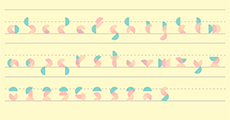
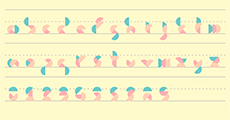
Update letters.js, README and image files
This commit focused on altering the forms that I was not one hundred percent happy with. These forms are now at a stage that I am saitisfied with.

diff --git a/draw_letters.js b/draw_letters.js
@@ -1,6 +1,6 @@
-//const colorFront1  = "#6dc9c9"; //tiffany blue
-//const colorFront2  = "#ffb2b2"; //coral pink
-//const colorFront3  = "#ffd0b5"; //salmon pink
+const colorFront1  = "#6dc9c9"; //tiffany blue
+const colorFront2  = "#ffb2b2"; //coral pink
+const colorFront3  = "#ffd0b5"; //salmon pink
 
 /*
  * Draw the letter given the letterData
@@ -12,14 +12,6 @@
 function drawLetter(letterData) {
   // color/stroke setup
   noStroke();
-
-  //Colour setup
-  let tiffanyblue = color("#6dc9c9");
-  tiffanyblue.setAlpha(200);
-  let coralpink = color("#ffb2b2");
-  coralpink.setAlpha(200);
-  let salmonpink = color("#ffd0b5");
-  salmonpink.setAlpha(200);
 
   //letter parameters
   //arc 1
@@ -44,15 +36,15 @@ function drawLetter(letterData) {
   let arcHei = letterData ["arcH"];
 
   //arc 1
-  fill(tiffanyblue);
+  fill(colorFront1);
   arc(arcX, arcY, arcWid, arcHei, arcS, arcE);
 
   //arc 2
-  fill(coralpink);
+  fill(colorFront2);
   arc(arcX2, arcY2, arcWid, arcHei, arcS2, arcE2);
 
   //arc 3
-  fill(salmonpink);
+  fill(colorFront3);
   arc(arcX3, arcY3, arcWid, arcHei, arcS3, arcE3);
 }
 

diff --git a/letters.js b/letters.js
@@ -202,8 +202,8 @@ const alphabet = {
     "arcH" : 75,
 
     //arc 1
-    "arcX" : 40,
-    "arcY" : 130,
+    "arcX" : 37,
+    "arcY" : 140,
     "arcS" : 23.55,
     "arcE" : 7.85,
 
@@ -225,7 +225,7 @@ const alphabet = {
 
     //arc 1
     "arcX" : 36,
-    "arcY" : 135,
+    "arcY" : 140,
     "arcS" : 23.55,
     "arcE" : 7.85,
 
@@ -414,7 +414,7 @@ const alphabet = {
 
     //arc 3
     "arcX3" : 72,
-    "arcY3" : 138,
+    "arcY3" : 140,
     "arcS3" : 27.47,
     "arcE3" : 43.17,
   },
@@ -797,22 +797,22 @@ const alphabet = {
     "arcH" : 75,
 
     //arc 1
-    "arcX" : 52,
-    "arcY" : 165,
-    "arcS" : 43.17,
-    "arcE" : 27.47,
+    "arcX" : 47,
+    "arcY" : 120,
+    "arcS" : 27.47,
+    "arcE" : 43.17,
 
     //arc 2
-    "arcX2" : 57,
+    "arcX2" : 47,
     "arcY2" : 120,
-    "arcS2" : 19.6,
-    "arcE2" : 3.9,
+    "arcS2" : 0,
+    "arcE2" : 15.7,
 
     //arc 3
-    "arcX3" : 57,
-    "arcY3" : 120,
-    "arcS3" : 27.47,
-    "arcE3" : 43.17,
+    "arcX3" : 55,
+    "arcY3" : 165,
+    "arcS3" : 43.17,
+    "arcE3" : 27.47,
   }
 
 }

diff --git a/index.html b/index.html
@@ -2,7 +2,7 @@
     <script src="https://cdnjs.cloudflare.com/ajax/libs/p5.js/1.0.0/p5.js"></script>
     <script src="https://cdnjs.cloudflare.com/ajax/libs/p5.js/1.0.0/addons/p5.dom.js"></script>
     <script language="javascript" type="text/javascript" src="z_purview_helper.js"></script>
-    <script language="javascript" type="text/javascript" src="sketch.js"></script>
+    <script language="javascript" type="text/javascript" src="letters.js"></script>
 </head>
 <body style="background-color:white">
     <div class="outer">

diff --git a/README.md b/README.md
@@ -1,6 +1,6 @@
 ## MDDN 242 2020 Assignment 2
 19/05/2020
-I finally started looking at opacity, and I now realize that if I really wanted to play with opacity with my forms, I should have taken it into consideration in the early stages of the designing process. As shown in the sketch for this commit, opacity is truly effective if the colours and shapes created do not distract or take away from the rest of the form. While some of my forms do look interesting with their opacity lowered, the layering of the arcs in some of my forms do not look as good, especially with the letters i, l, r, s, t and x. With this revelation, I have decided to not alter the opacity of my letters, and instead focus on looking at different colour palettes as I am mostly happy with my letter forms. The designs for the letters f, i, j, r and s, as well as the number nine still need to be adjusted. 
+I looked at altering the designs of the letters f, i, j, r and s, as well as the number nine. For the letters, I decided to adjust them slightly, as I felt that they sat too close to the median line in comparison to other letters, which sat quite low beneath it. For the f, I decided to keep it as is for now, as I saw that alterante designs did not represent the f in an overt manner compared to my original design. For the number nine, I initially thought I should have it mirror the design of the number six, since they traditionally resemble eachother when flipped. I also realized that nine had another form, and so to remain cohesive in design, I altered the nine to its current form. I am much more satisfied with my letter and number forms as a whole.
 
 The fourteen parameters per letter:
 "arcW" : width of all arcs
